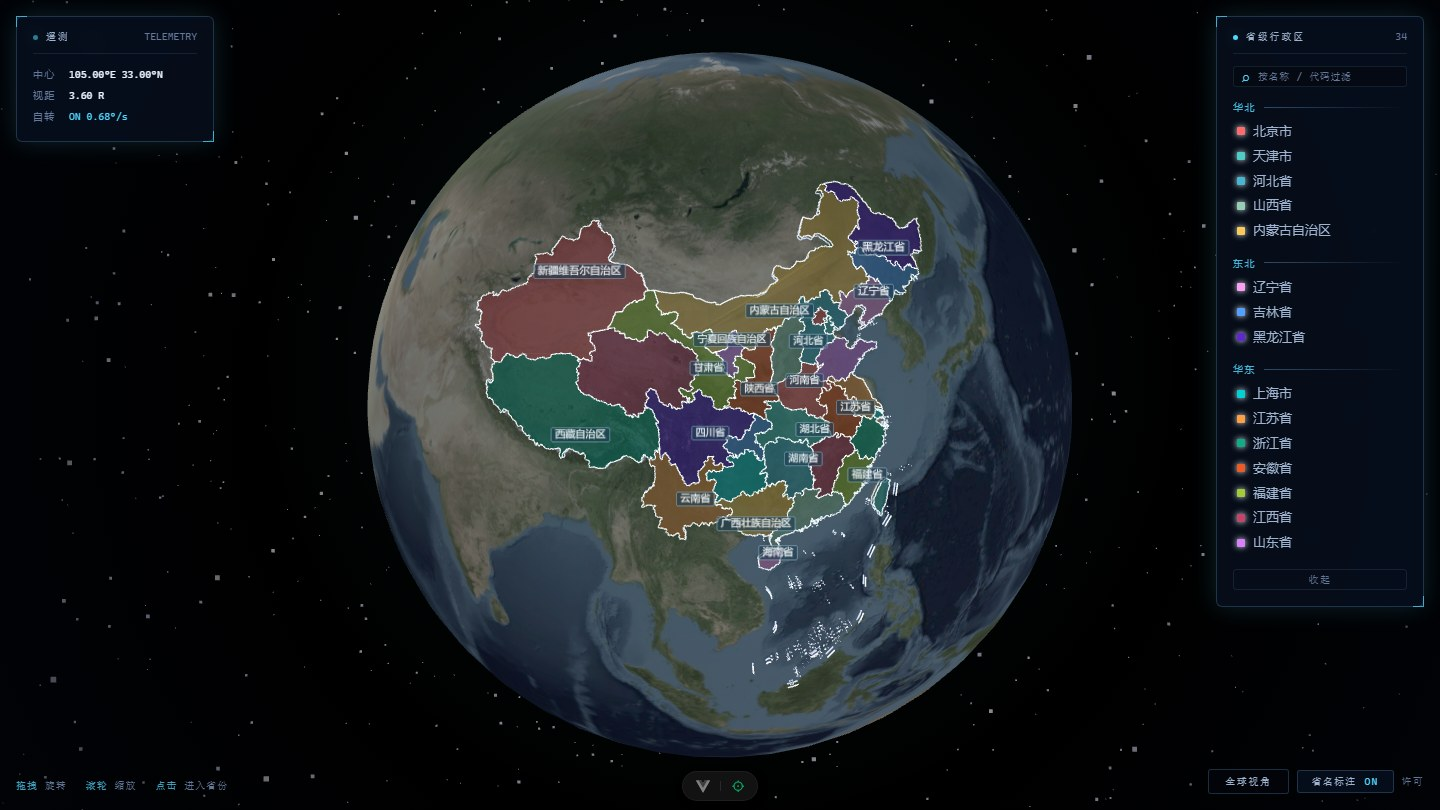
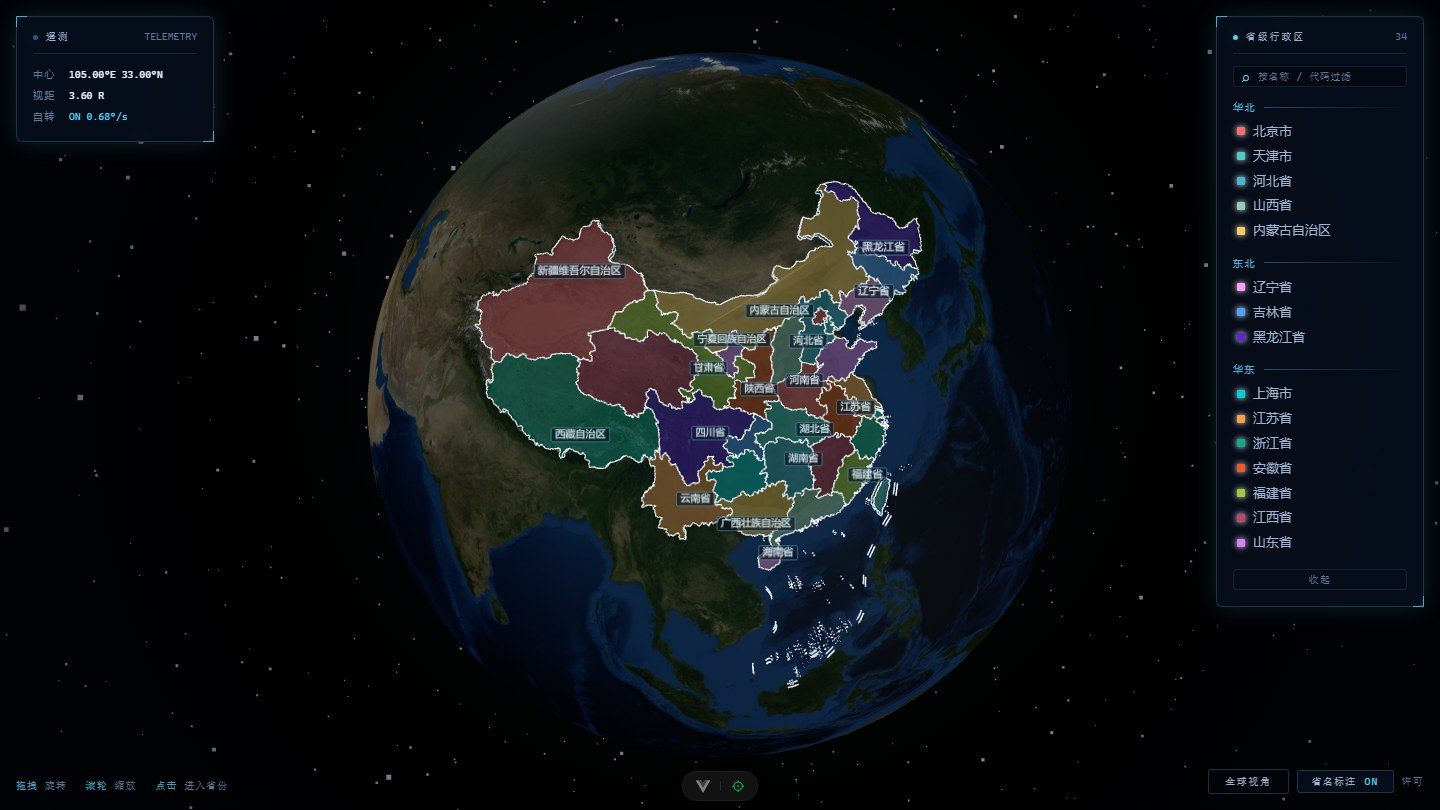
fix: 贴图颜色空间改成 sRGB，卫星影像不再是一团灰雾
「卫星贴图模糊」的根因不是分辨率，是色彩空间。

three.js 默认把贴图当线性数据处理，而 JPEG 里存的是 sRGB 编码的数据。
漏掉 texture.colorSpace = THREE.SRGBColorSpace，画面就会整体发灰、
对比度被压掉——整颗地球像蒙了一层雾。之前为了迁就这个 bug，贴图脚本
还额外做了一轮「补偿性调暗」，把问题掩盖得更深。

实测证据：
- NASA 的 21600×10800 原图在四川盆地的同区域高频能量是 5400×2700 版的 2.67 倍
- 但把贴图换成 8192×4096 后，默认视图 / 全球视角 / 最近视距三种场景下
  最终画面的锐度变化分别只有 -0.1% / +0.1% / +0.2%
- 改对色彩空间之后，地球从灰雾变成能看清喜马拉雅山脊与大陆架的卫星影像

改动：
- EarthScene / WorldScene：贴图声明 SRGBColorSpace，并开启各向异性过滤
- provinceLabels：CanvasTexture 同样声明 SRGBColorSpace
- 贴图还原成 NASA 原图（等比缩放，不做任何色彩补偿）
- 新增 textureColors.spec.js：静态扫描 src 下每处建贴图的地方，
  缺色彩空间声明就红（已做变异校验）
- README / LICENSES / AGENTS 同步，并重新生成实拍图

Changed region(s): [[0.25, 0.0617, 0.75, 0.9568], [0.4688, 0.5247, 0.5, 0.5556]]

diff --git a/src/__tests__/textureColors.spec.js b/src/__tests__/textureColors.spec.js
@@ -1,0 +1,61 @@
+// @vitest-environment node
+// 贴图色彩空间的回归测试。
+//
+// JPEG 与 Canvas 存的都是 sRGB 编码的数据，而 three.js 默认把贴图当线性数据处理。
+// 漏掉 `colorSpace = SRGBColorSpace` 不会报错、不会警告，只会让画面整体发灰、
+// 对比度被压掉——「卫星贴图模糊」曾因此被误判成分辨率不足（实测把 4096 换成 8192
+// 只提升 0.2% 锐度，改对色彩空间才是解法）。
+//
+// 这里做静态扫描：每处建贴图的地方都必须显式声明色彩空间。
+import { describe, it, expect } from 'vitest'
+import { readFileSync, readdirSync } from 'node:fs'
+import { fileURLToPath } from 'node:url'
+import path from 'node:path'
+
+const repoRoot = new URL('../../', import.meta.url)
+const repoRootPath = fileURLToPath(repoRoot)
+
+/** 递归找出 src 下所有源码文件 */
+function collectSources(dir) {
+  const out = []
+  for (const entry of readdirSync(dir, { withFileTypes: true })) {
+    const full = path.join(dir, entry.name)
+    if (entry.isDirectory()) out.push(...collectSources(full))
+    else if (/\.(js|vue)$/.test(entry.name)) out.push(full)
+  }
+  return out
+}
+
+const sources = collectSources(fileURLToPath(new URL('src/', repoRoot))).filter(
+  (f) => !f.includes(`${path.sep}__tests__${path.sep}`),
+)
+
+describe('贴图色彩空间', () => {
+  it('src 下确实有建贴图的地方（避免扫描规则空转）', () => {
+    const hits = sources.filter((f) =>
+      /new THREE\.(TextureLoader|CanvasTexture|DataTexture|VideoTexture)/.test(
+        readFileSync(f, 'utf-8'),
+      ),
+    )
+    expect(hits.length).toBeGreaterThan(0)
+  })
+
+  it('每处贴图都显式声明了 SRGBColorSpace', () => {
+    const problems = []
+    for (const file of sources) {
+      const text = readFileSync(file, 'utf-8')
+      const lines = text.split('\n')
+      lines.forEach((line, index) => {
+        if (!/new THREE\.(TextureLoader|CanvasTexture|DataTexture|VideoTexture)/.test(line)) return
+        // 从建贴图的那一行往后看 25 行，要求出现色彩空间声明
+        const window = lines.slice(index, index + 25).join('\n')
+        if (!/colorSpace\s*=\s*THREE\.SRGBColorSpace/.test(window)) {
+          problems.push(`${path.relative(repoRootPath, file)}:${index + 1}`)
+        }
+      })
+    }
+    expect(problems, `这些地方建了贴图但没声明 sRGB 色彩空间：${problems.join('、')}`).toEqual(
+      [],
+    )
+  })
+})

diff --git a/src/components/EarthScene.vue b/src/components/EarthScene.vue
@@ -370,7 +370,7 @@ const initEarth = () => {
   // 创建地球材质和几何体
   const geometry = new THREE.SphereGeometry(2, 64, 64)
   const textureLoader = new THREE.TextureLoader()
-  // 使用占位贴图（项目 public/textures 中会提供真实贴图）
+  // 地球贴图：NASA BMNG「地形与水深」，来源见 LICENSES.md
   const earthTexture = textureLoader.load(
     '/textures/earth_atmos_4096.jpg',
     undefined,
@@ -379,6 +379,13 @@ const initEarth = () => {
       console.warn('地球贴图加载失败，使用纯色材质')
     },
   )
+  // 贴图存的是 sRGB 编码的 JPEG，**必须**声明成 sRGB 颜色空间。
+  // 漏掉这一句，three.js 会把 sRGB 数据当线性数据处理：整体发灰、对比度被压掉，
+  // 卫星影像看起来像蒙了一层雾——这是「贴图模糊」的主因，与分辨率无关。
+  earthTexture.colorSpace = THREE.SRGBColorSpace
+  // 各向异性过滤：画面边缘是掠射角，贴图沿视线方向被压缩，
+  // 没有它边缘会糊成一片。
+  earthTexture.anisotropy = renderer.capabilities.getMaxAnisotropy()
 
   const material = new THREE.MeshPhongMaterial({
     map: earthTexture,

diff --git a/src/components/WorldScene.vue b/src/components/WorldScene.vue
@@ -252,11 +252,17 @@ const initThree = () => {
   sun.position.set(5, 2, 3)
   scene.add(sun)
 
+  // 与地球页同一张卫星贴图：两个视角是同一个产品，视觉语言必须一致
+  const earthTexture = new THREE.TextureLoader().load('/textures/earth_atmos_4096.jpg')
+  // 贴图是 sRGB 编码的 JPEG，必须声明成 sRGB 颜色空间，否则会被当成线性数据，
+  // 整个球会发灰、对比度被压掉。详见 EarthScene.vue 里的同一处说明。
+  earthTexture.colorSpace = THREE.SRGBColorSpace
+  earthTexture.anisotropy = renderer.capabilities.getMaxAnisotropy()
+
   const globe = new THREE.Mesh(
     new THREE.SphereGeometry(2, 64, 64),
     new THREE.MeshPhongMaterial({
-      // 与地球页同一张卫星贴图：两个视角是同一个产品，视觉语言必须一致
-      map: new THREE.TextureLoader().load('/textures/earth_atmos_4096.jpg'),
+      map: earthTexture,
       color: 0xffffff,
       specular: new THREE.Color(0x333333),
       shininess: 10,

diff --git a/src/utils/provinceLabels.js b/src/utils/provinceLabels.js
@@ -240,6 +240,8 @@ export function createLabelTexture(text, { fontSize = 40 } = {}) {
   ctx.fillText(text, width / 2, height / 2)
 
   const texture = new THREE.CanvasTexture(canvas)
+  // Canvas 画的是 sRGB 颜色，声明清楚才不会在渲染时被当成线性数据
+  texture.colorSpace = THREE.SRGBColorSpace
   texture.anisotropy = 4
   texture.needsUpdate = true
   return { texture, width, height }

diff --git a/AGENTS.md b/AGENTS.md
@@ -87,6 +87,7 @@ CI 定义在 `.github/workflows/ci.yml`：push 与 PR 都跑 `lint:check` + `tes
 10. **three.js 的 `Color` 不认 `'0xRRGGBB'` 字符串**，只认数值或 `'#RRGGBB'`。传错类型不会报错，只是颜色静默变成默认灰。
 11. **审图号不能沿用到 3D 地球上。** 审图号是对特定**平面地图产品**的核准编号，绑定那张地图的内容与表现形式。本项目把行政区划投到球面、重新配色并加了交互，属于另一种表现形式，因此**不能**把标准地图的审图号标在自己的球面上，也不能把本站当作「经审核的标准地图」使用或转发。
 12. **只同步标准地图的元数据，不下载也不分发地图图片。** 标准地图服务系统的站点条款写明「未经许可不得复制、镜像」，把官方图片打包进公开仓库属于再分发。`public/data/standard-maps.json` 里只有名称、比例尺、审图号与审核年份；图片请引导用户到官方服务系统下载。
+13. **所有贴图都要显式声明 `colorSpace = SRGBColorSpace`。** JPEG 与 Canvas 存的都是 sRGB 编码的数据，three.js 默认按线性数据处理——漏掉这一句，画面会整体发灰、对比度被压掉。**这一条曾经被误判成「贴图分辨率不够」**：实测把 4096×2048 换成 8192×4096（NASA 有 21600×10800 的更高精原图，同区域高频能量是 5400 版的 2.67 倍），最终画面锐度只提升 0.2%；而改对色彩空间后，画面从一片灰雾变成能看清山脊的卫星影像。**贴图文件本身不做任何色彩补偿**，颜色由渲染端负责。
 
 ## 地理数据同步
 
@@ -142,7 +143,7 @@ npmmirror 的单文件接口对这几个包是 403，tarball 是唯一通道。`
 
 ## 已知限制
 
-- 地球贴图 4096×2048，放大到省级尺度仍会模糊；中国视角与全球视角共用这一张贴图。
+- 地球贴图 4096×2048，放大到省级尺度仍会模糊；中国视角与全球视角共用这一张贴图。瓶颈不在分辨率（实测换 8192 只提升 0.2% 锐度），而在 NASA「地形与水深」这款产品本身偏柔和。
 - 省级详情页的人口是 2023 年末的公开统计口径，各省统计年份不完全一致；分省人口的权威自动源在受限网络下不可达。
 - 全球视角不含人口：国内没有可自动同步的权威人口源，改用边界实算面积。
 - 上游几何覆盖不全：世界数据没有科索沃（两个上游都没有它的边界）。

diff --git a/LICENSES.md b/LICENSES.md
@@ -43,9 +43,10 @@
 
 | 文件 | 内容 | 来源 | 许可 |
 |---|---|---|---|
-| `public/textures/earth_atmos_4096.jpg` | 地球贴图（两个视角共用） | NASA Blue Marble Next Generation「地形与水深」2004 年 7 月版（`world.topo.bathy.200407.3x5400x2700.jpg`），经缩放至 4096×2048 并逐通道配平 | NASA 影像一般不受著作权保护，无需取得许可；按其媒体使用指引署名 |
+| `public/textures/earth_atmos_4096.jpg` | 地球贴图（两个视角共用） | NASA Blue Marble Next Generation「地形与水深」2004 年 7 月版（`world.topo.bathy.200407.3x5400x2700.jpg`），等比缩放至 4096×2048 | NASA 影像一般不受著作权保护，无需取得许可；按其媒体使用指引署名 |
 
 贴图文件已去掉 EXIF / XMP 元数据（其中只有编辑工具与时间戳，不含署名信息）。
+**贴图不做任何色彩调整**——直接用 NASA 原图缩放，颜色由渲染端的 sRGB 色彩空间保证正确。
 
 原先那份 2048×1024 的贴图是 three.js 示例资源 `examples/textures/planets/earth_atmos_2048.jpg` 的逐字节副本（sha256 `2faa400d…`），其影像本体同样是 NASA Blue Marble（`land_ocean_ice_2048`），现已替换为分辨率更高的 BMNG 地形与水深版。
 
